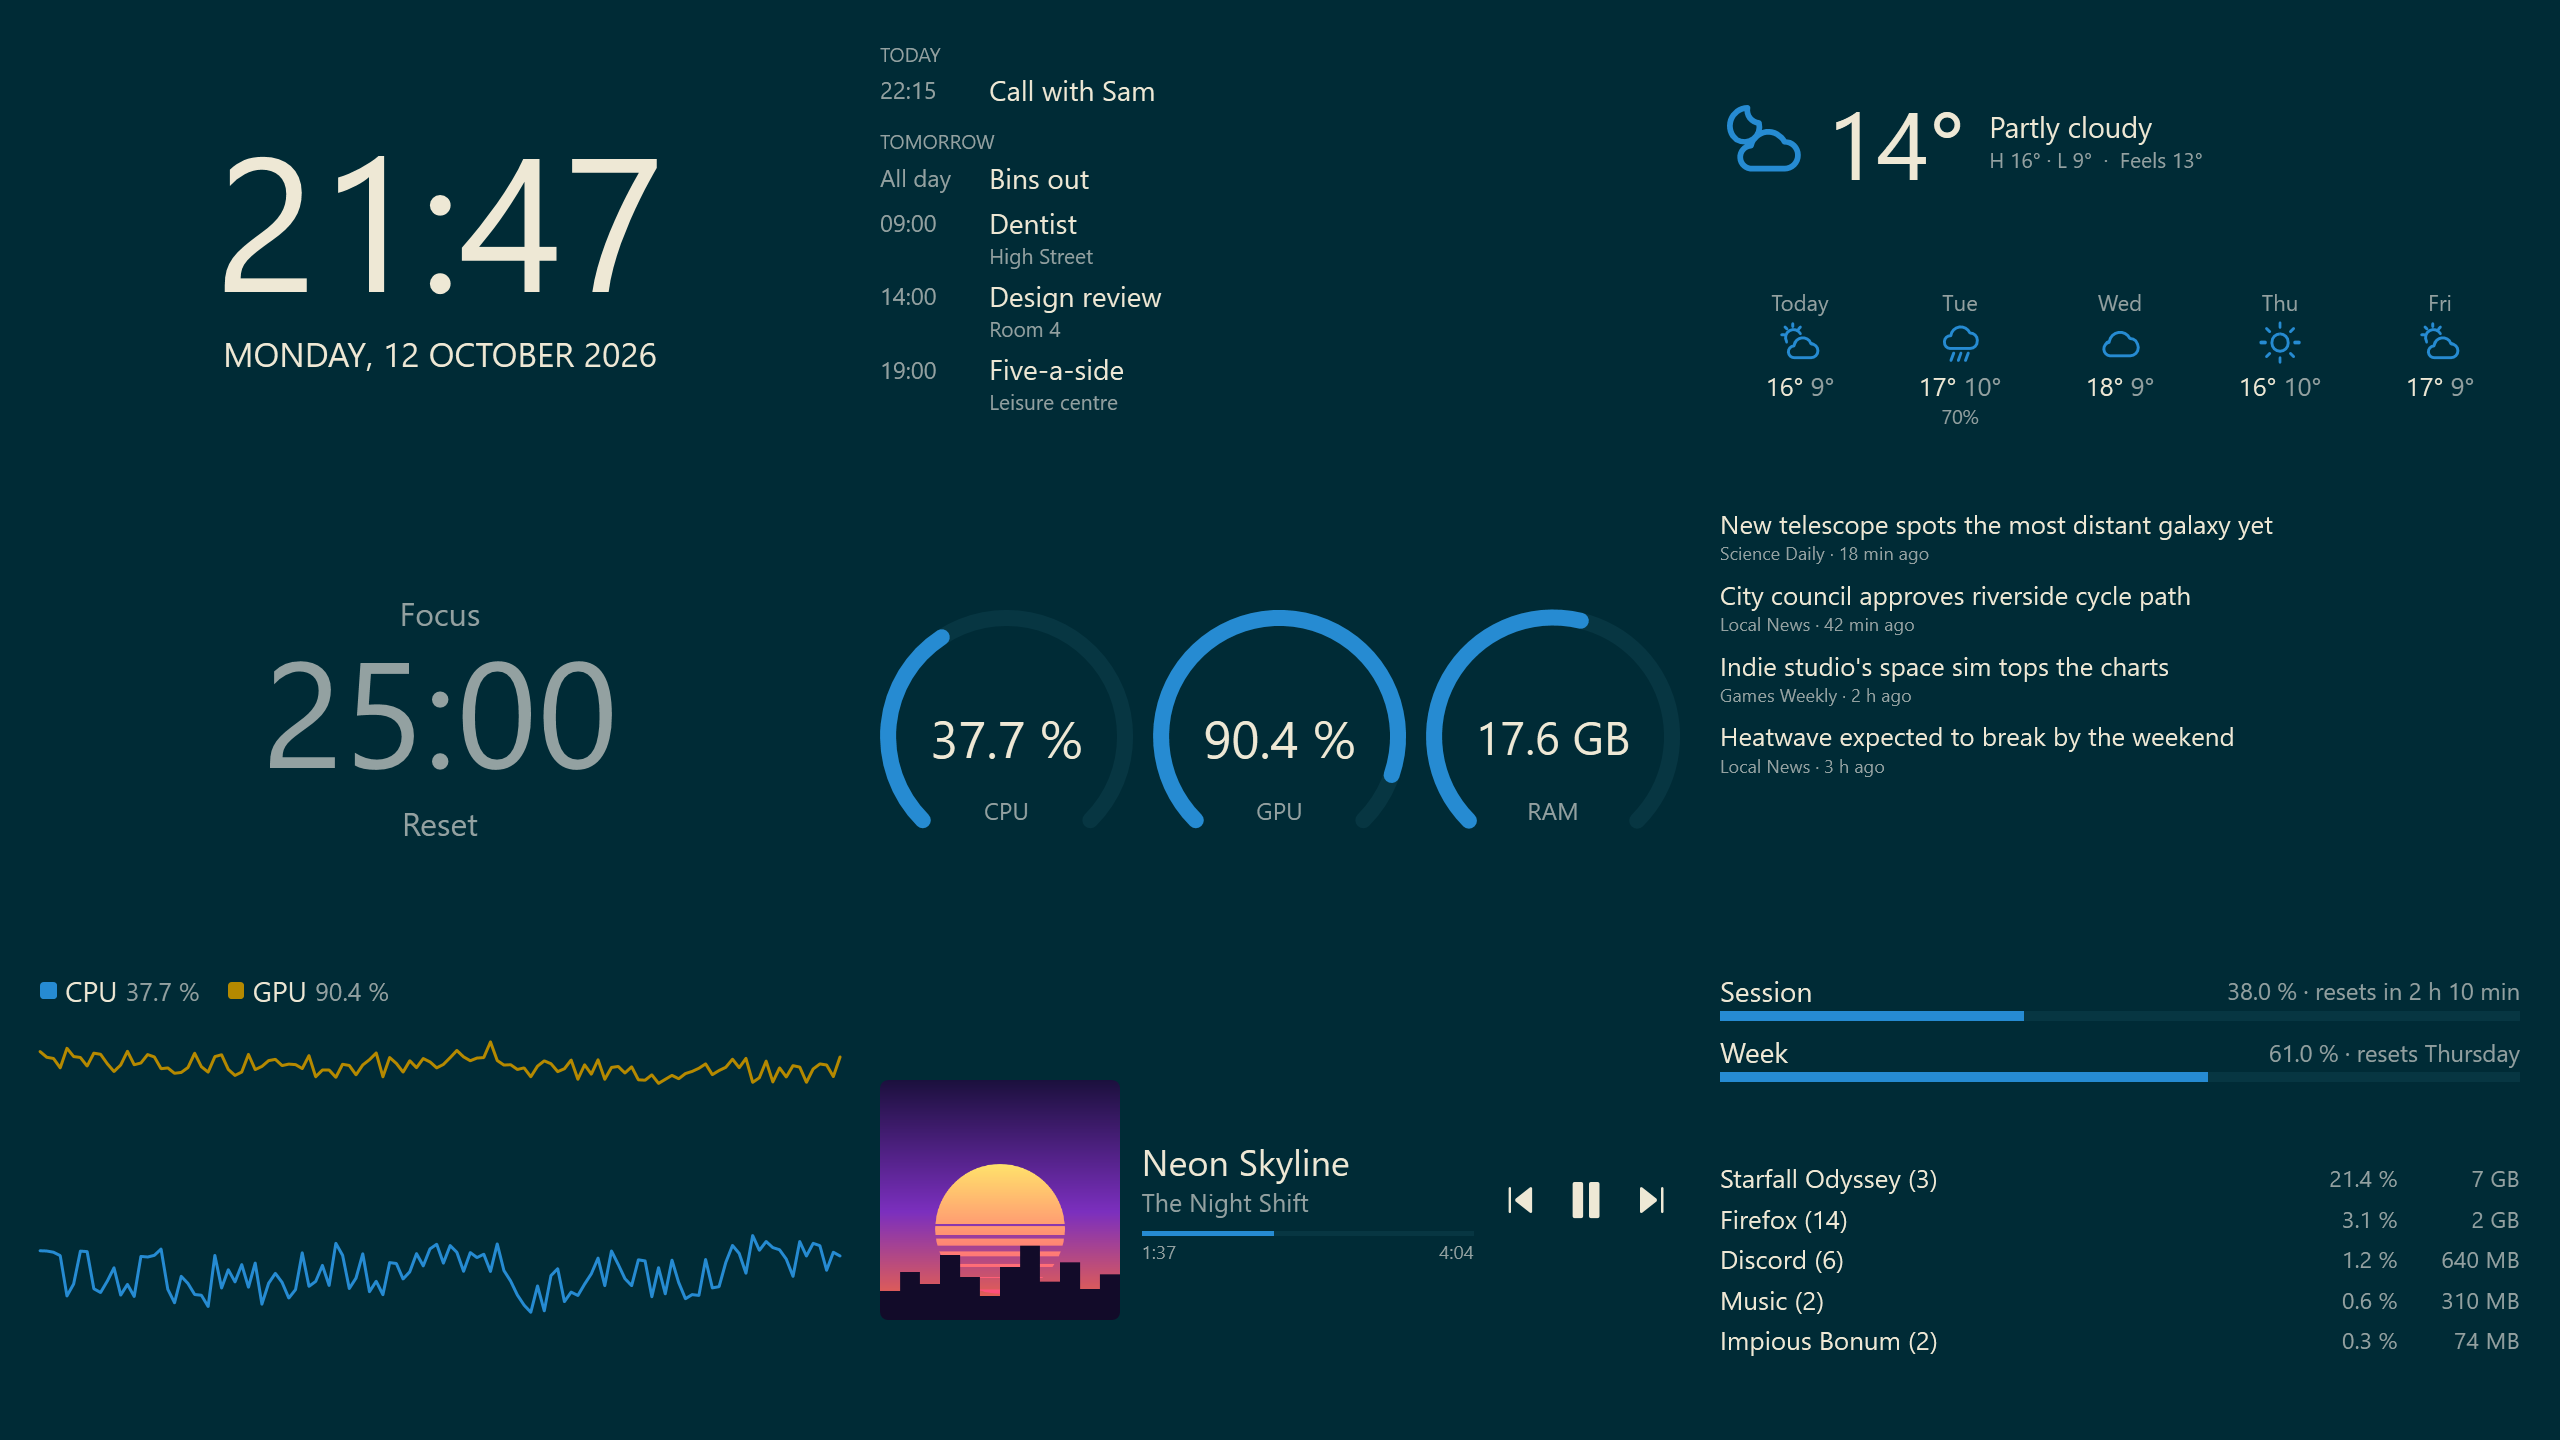
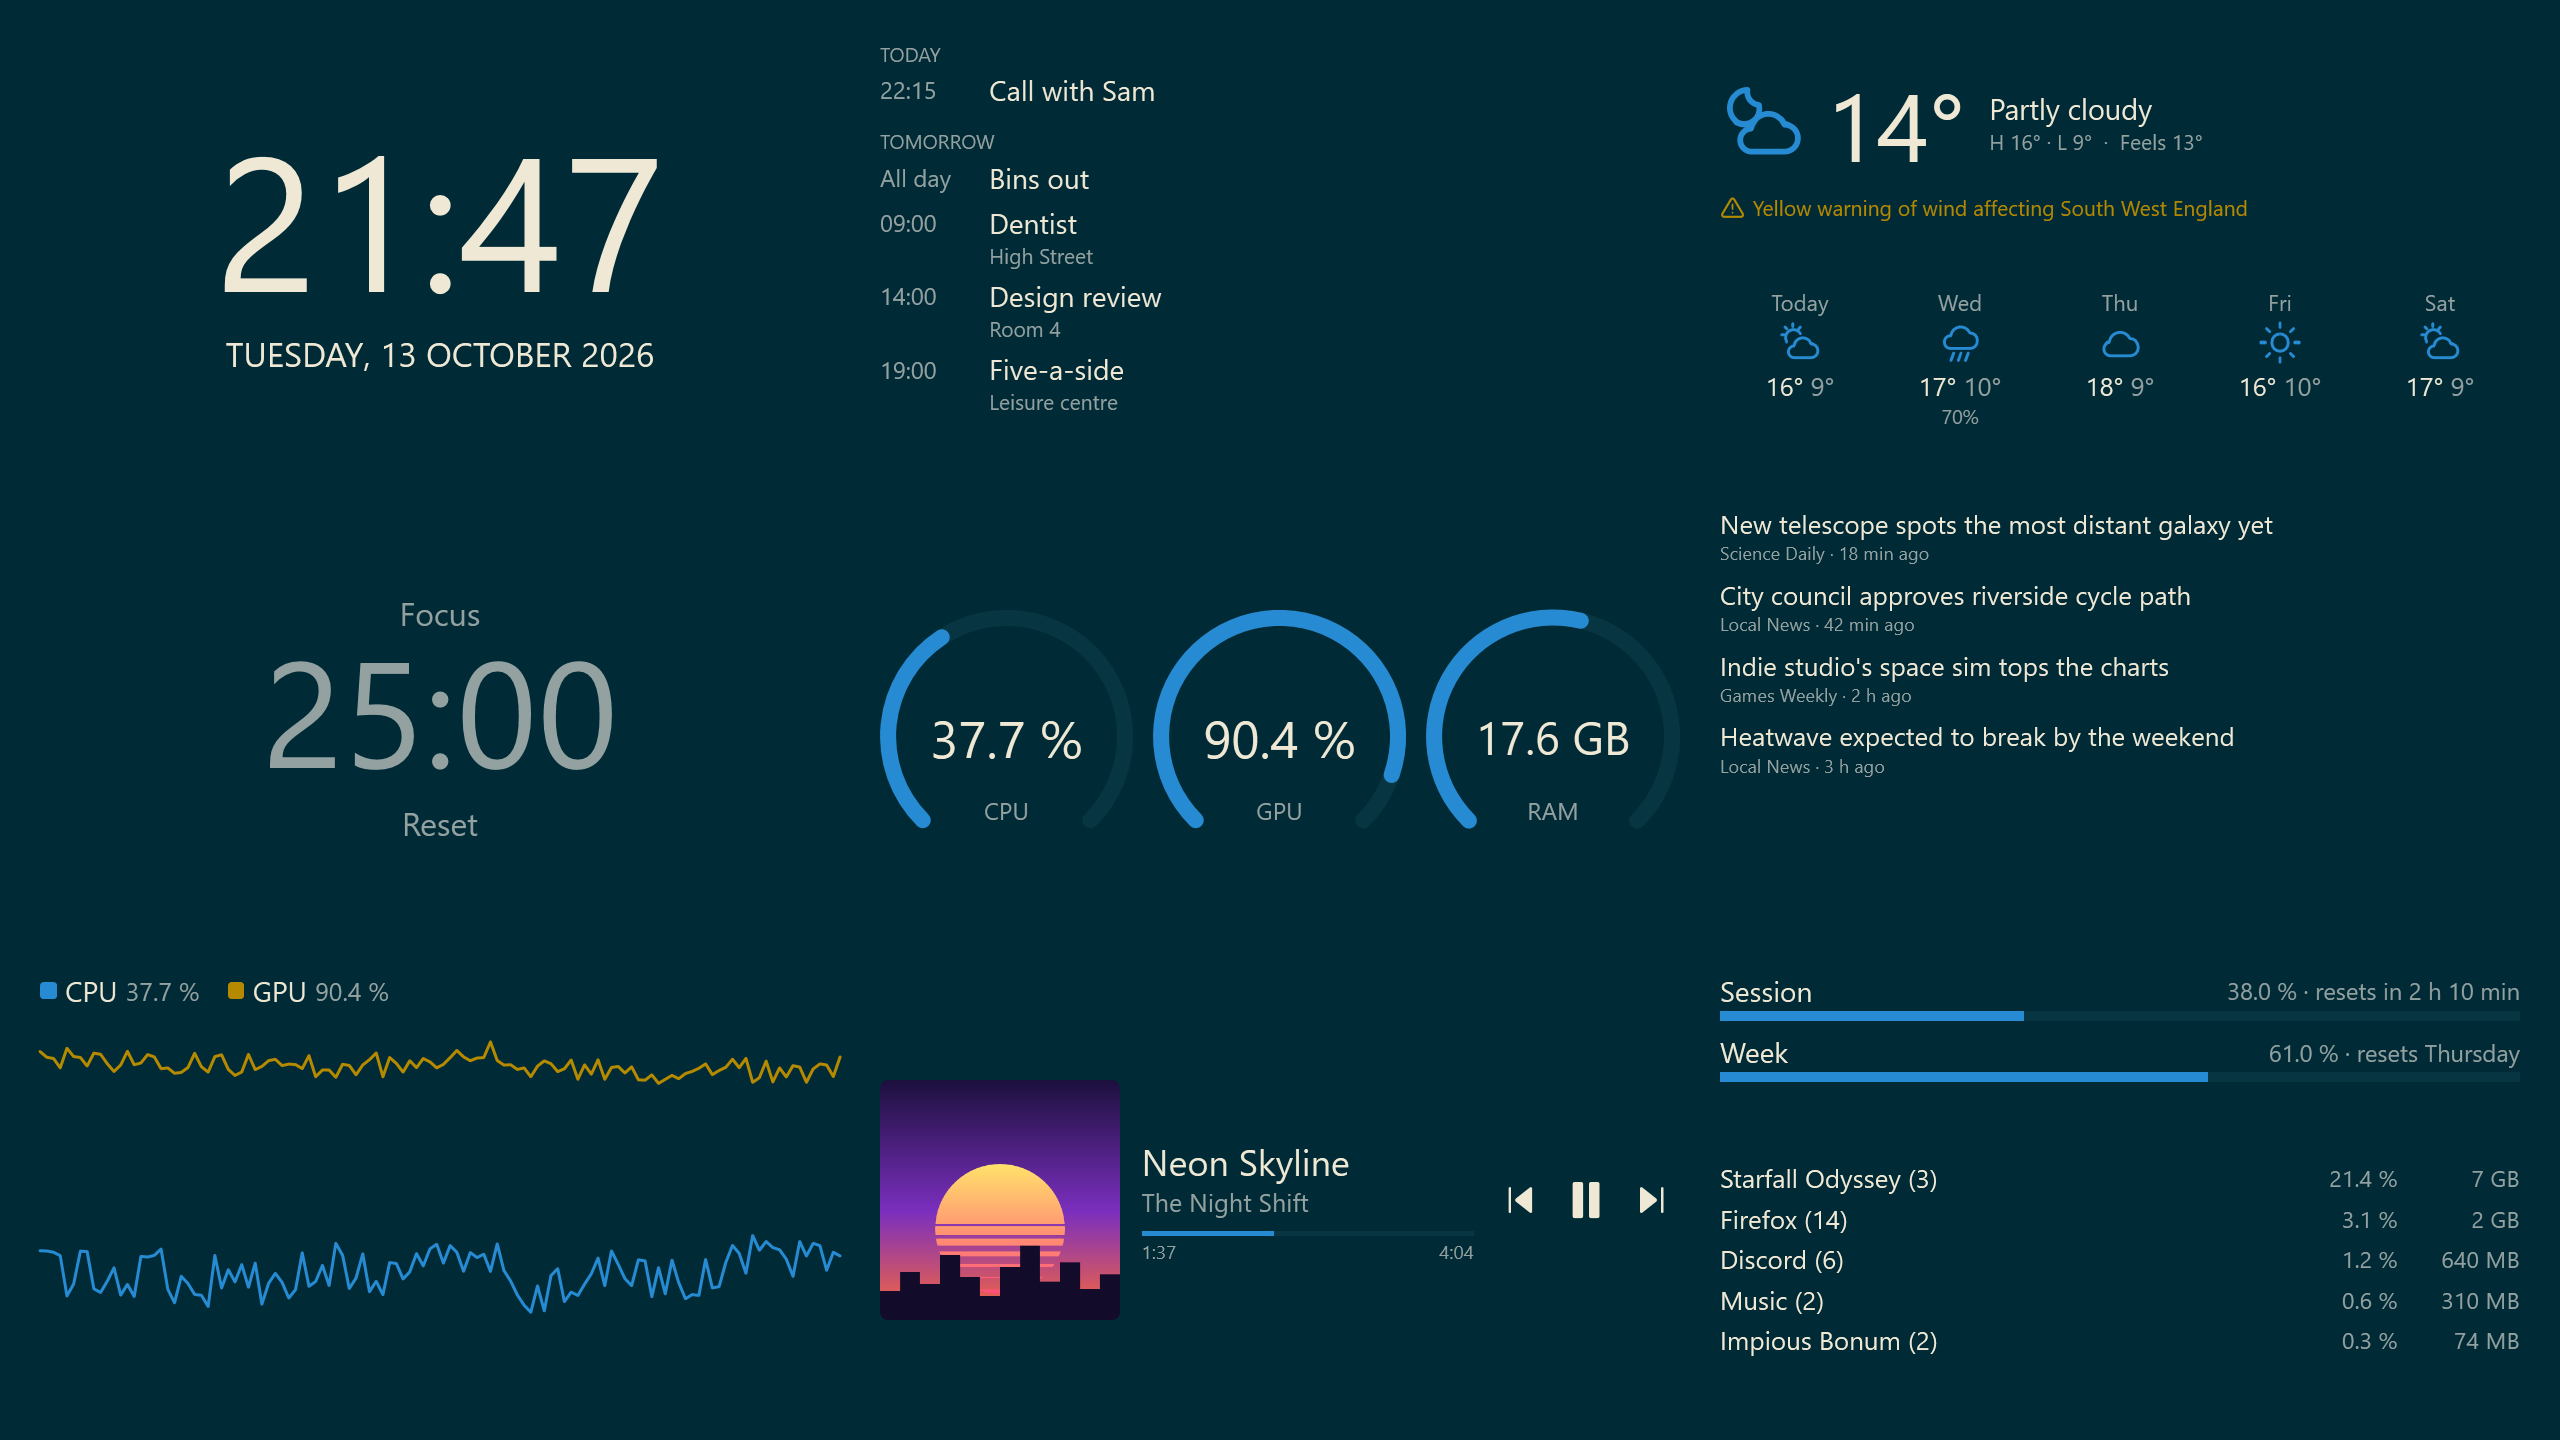
Draw the weather pictures again with the demo's warning
The weather widget's picture and the gallery layouts with a weather widget, drawn with --snapshot --demo as
build/screenshots.ps1 does (British English, UK time). The weather picture's alt text in the README and the guide
mentions the warning.

diff --git a/docs/guide.md b/docs/guide.md
@@ -244,7 +244,7 @@ A sensor service from before 0.8 doesn't send these; *Sensors* → *Update…* b
 
 The *Weather* widget shows an icon, the temperature and conditions now (with today's high and low and what it feels like), and a row of the days or hours ahead, every three hours if you like: up to 16 days, or 48 hours. Every `weather.*` metric works in other widgets too: `{weather.temp} · {weather.condition}` in a text widget, or a gauge of `weather.temp`.
 
-<p align="center"><img src="images/widgets/weather.png" width="600" alt="The weather widget with colour icons: 14° and partly cloudy now with the high, low and feels-like, four days ahead, and below it a second weather widget of every three hours ahead with the chance of rain"></p>
+<p align="center"><img src="images/widgets/weather.png" width="600" alt="The weather widget with colour icons: 14° and partly cloudy now with the high, low and feels-like, four days ahead and a yellow wind warning under them, and below it a second weather widget of every three hours ahead with the chance of rain"></p>
 
 1. *Weather* → *Set location…*, or in the editor select the widget and *Set location…* under *Set up* (adding the widget offers it too). Search for your town, area or postcode, or type latitude and longitude, e.g. `51.5, -0.12`.
 2. Add the widget: *Add widget* → *Weather* in the editor.

diff --git a/README.md b/README.md
@@ -59,7 +59,7 @@ spare screen? It works as a window too, or on a tablet over Wi-Fi.
 
 <table>
   <tr>
-    <td width="50%"><img src="docs/images/widgets/weather.png" alt="The weather widget with colour icons: 14° and partly cloudy now with the high, low and feels-like, four days ahead, and every three hours ahead with the chance of rain"><br><b>Weather</b>: now, the days ahead and the hours ahead</td>
+    <td width="50%"><img src="docs/images/widgets/weather.png" alt="The weather widget with colour icons: 14° and partly cloudy now with the high, low and feels-like, four days ahead and a yellow wind warning under them, and every three hours ahead with the chance of rain"><br><b>Weather</b>: now, the days ahead and the hours ahead</td>
     <td width="50%"><img src="docs/images/widgets/agenda.png" alt="An agenda of today's and tomorrow's events with their times and places, and the next event, Call with Sam at 22:15"><br><b>Calendar</b>: today, tomorrow and what's next</td>
   </tr>
   <tr>
